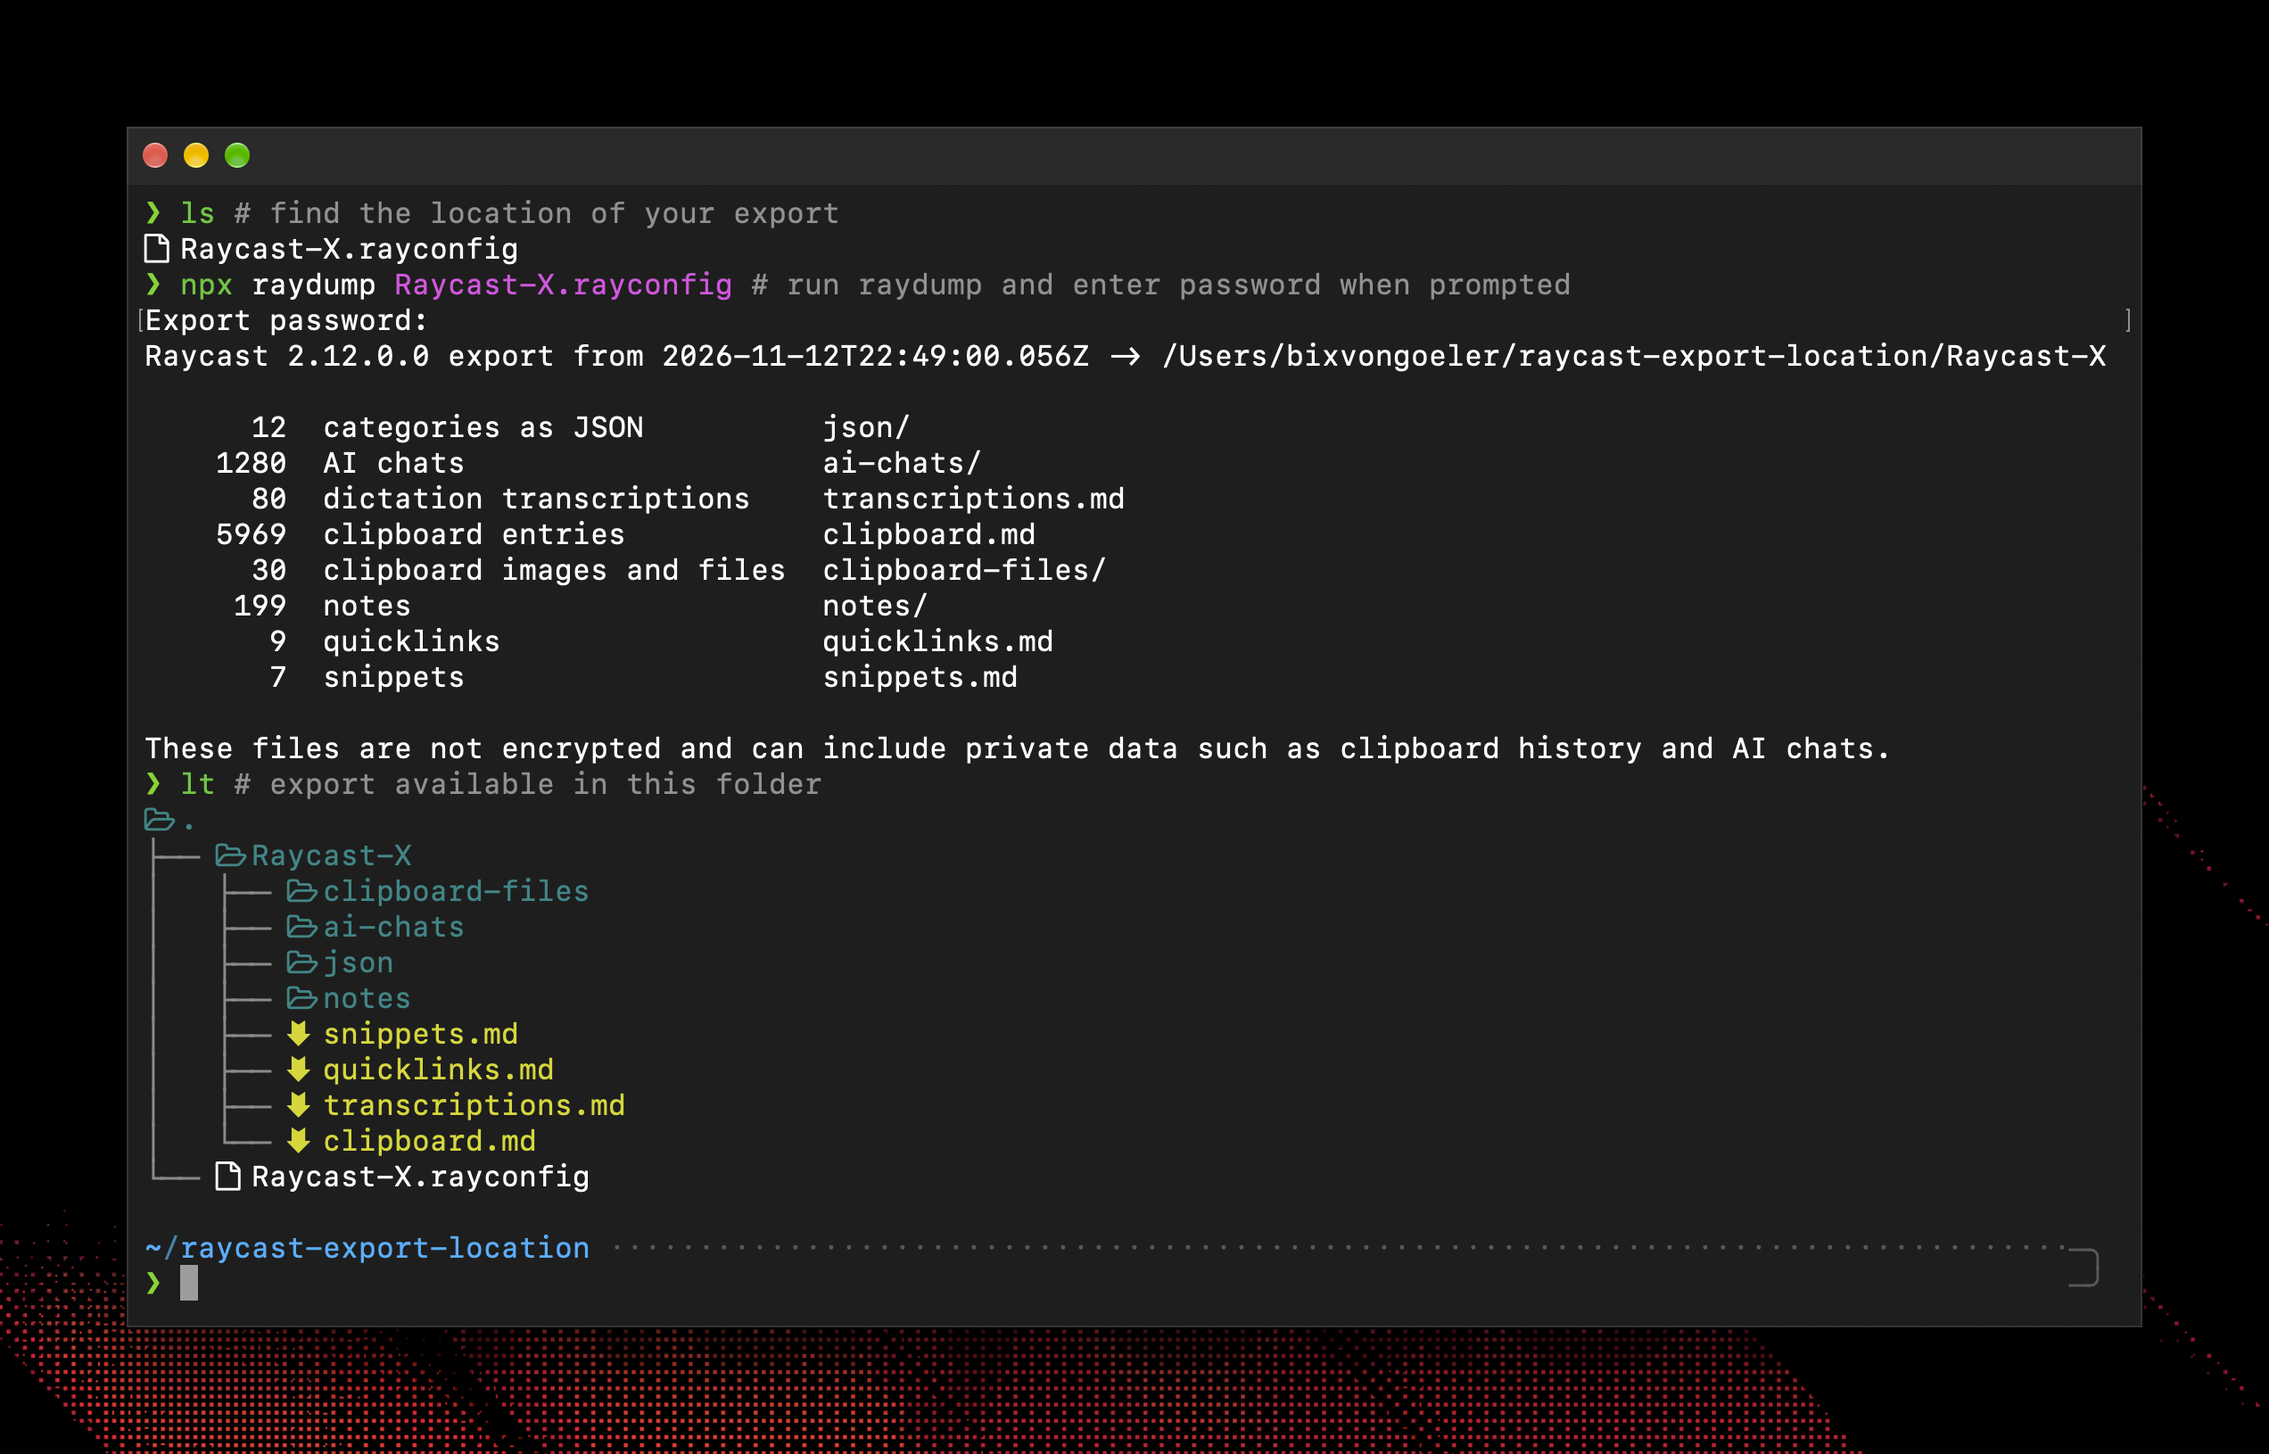
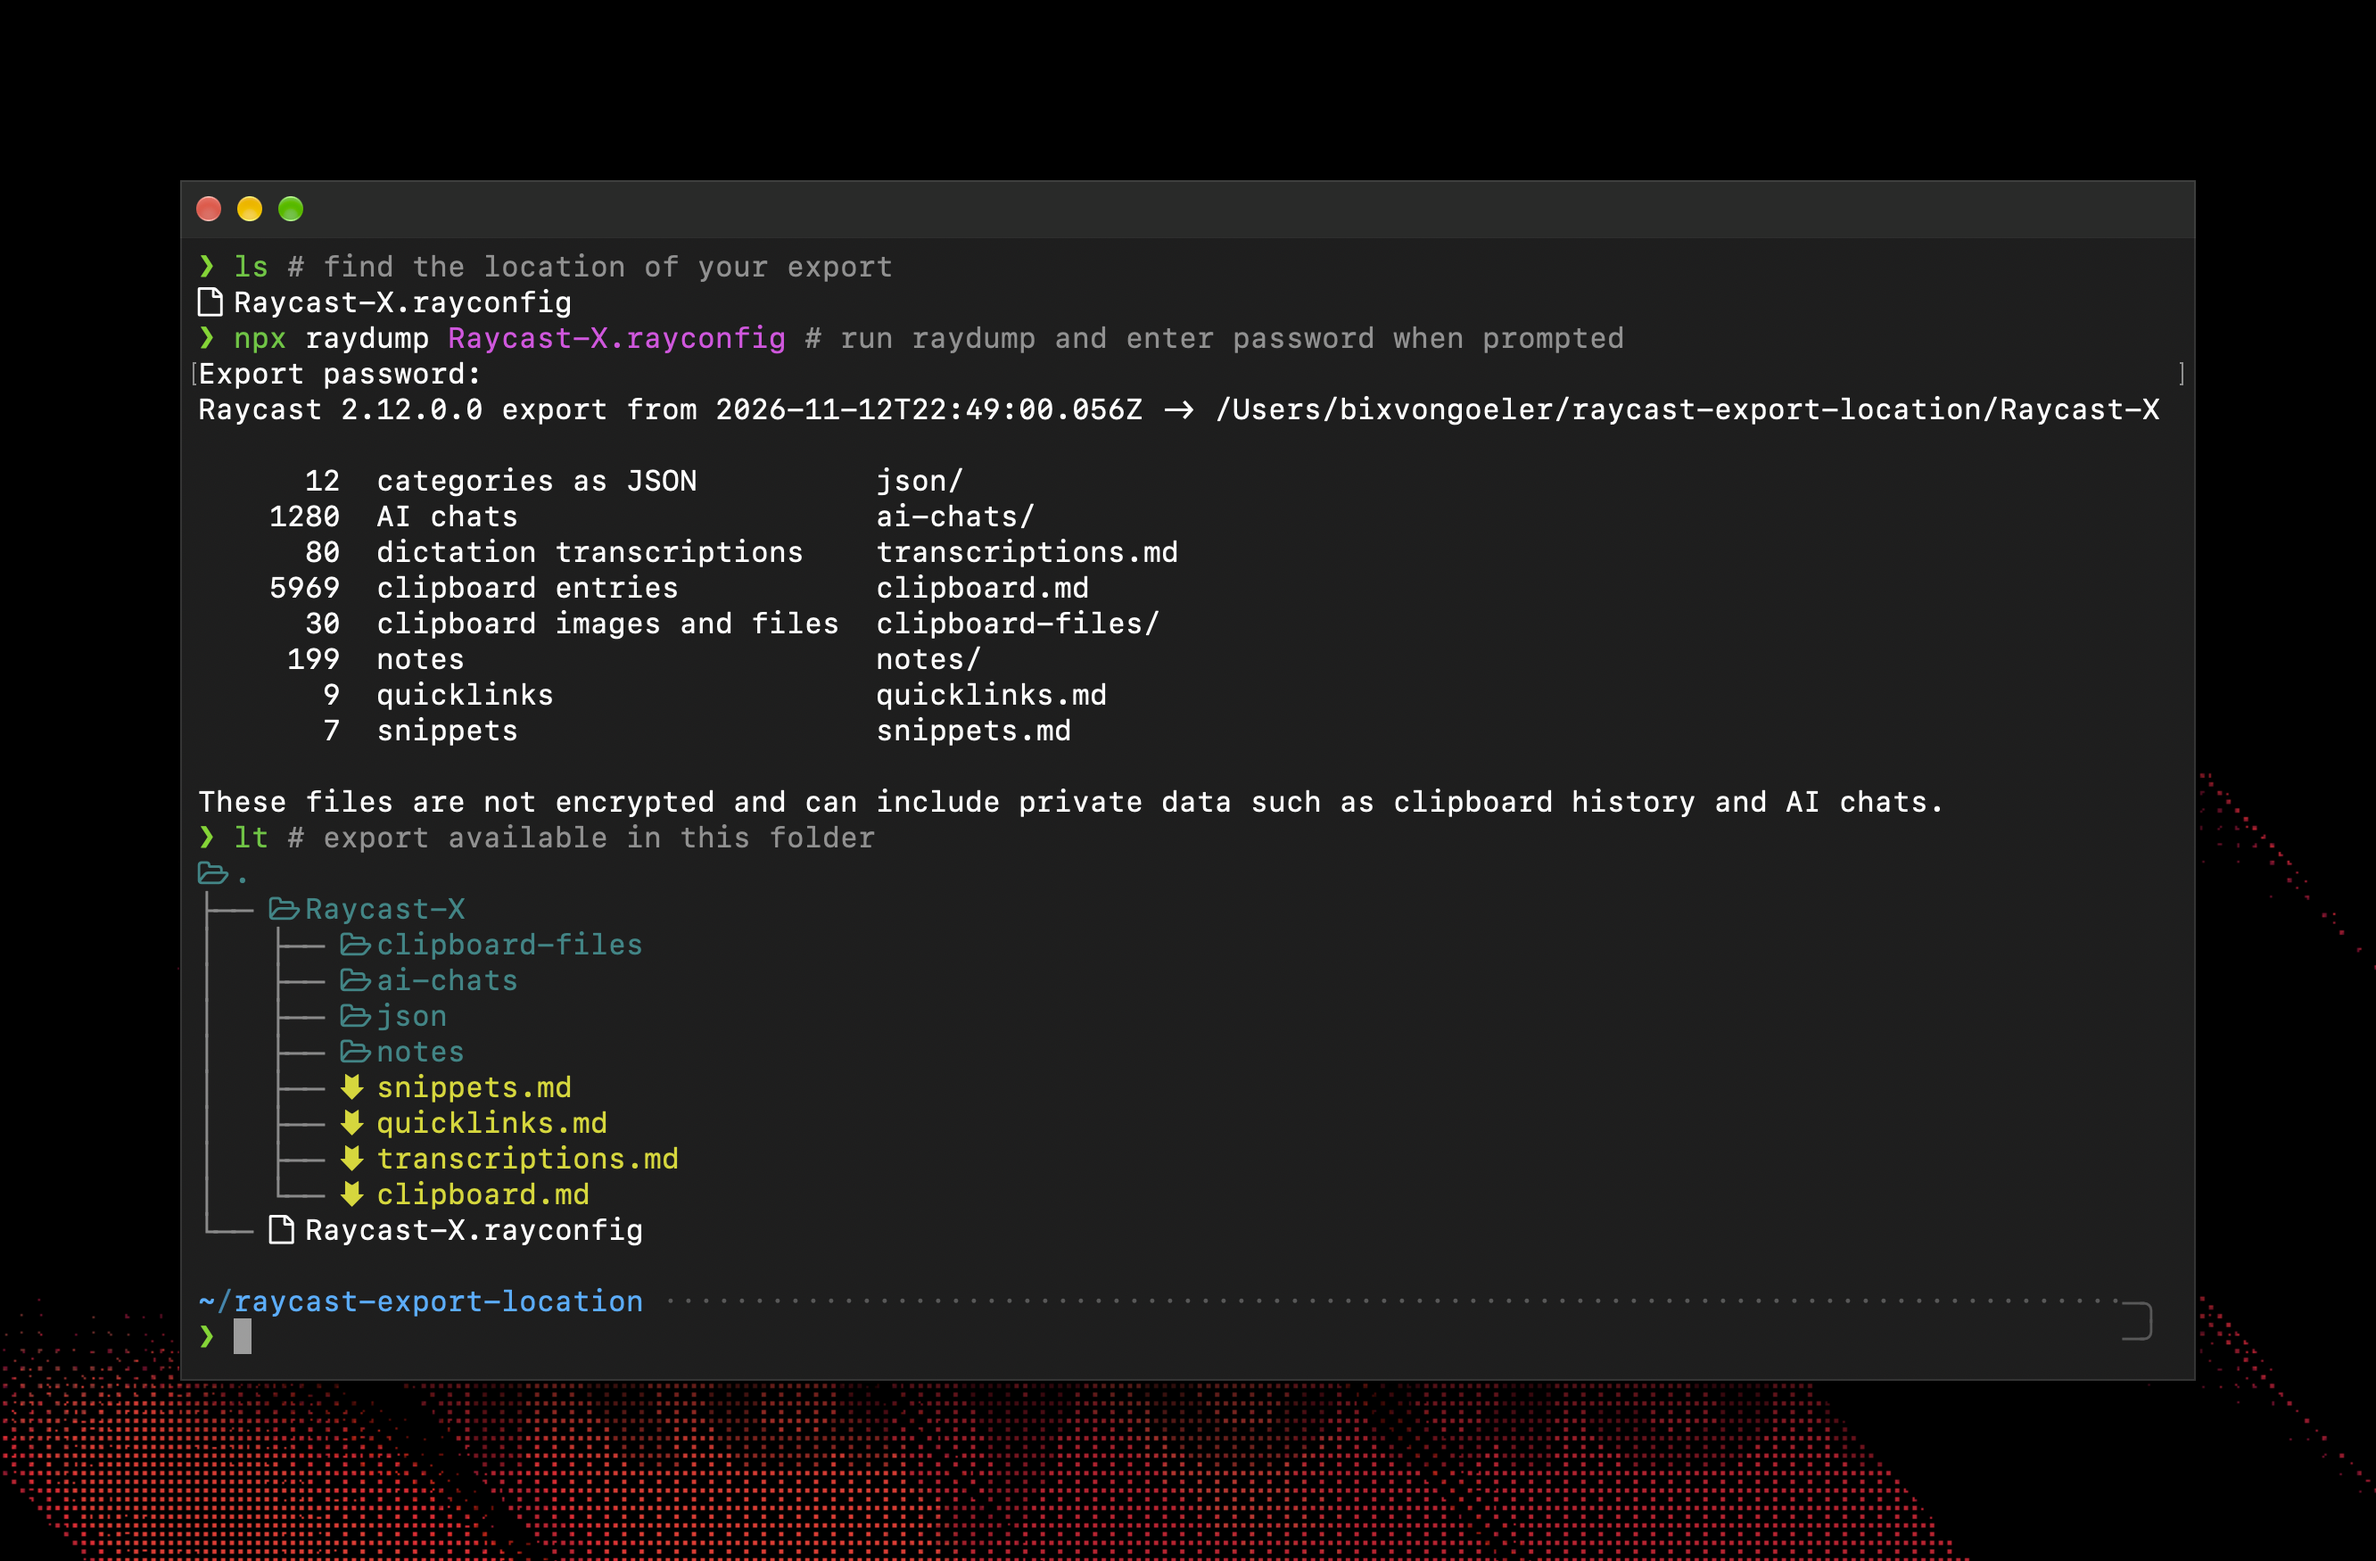
updated graphics

Changed region(s): [[0.0, 0.0613, 0.9627, 1.0]]

diff --git a/README.md b/README.md
@@ -24,6 +24,10 @@ Raycast only offers export through an _"Export Settings & Data"_ command resulti
 - It runs entirely on your computer and makes no network requests.
 - It has no dependencies beyond Node.js.
 
+<p align="center">
+  <a href="https://github.com/bixvongoeler/raydump"><img width="1024" src=".github/assets/flow.png" alt="raydump flow"></a>
+</p>
+
 ## Quick Start
 
 To use `raydump`, run the _"Export Settings & Data"_ command inside Raycast, save the `Raycast-X DATE.rayconfig` file, and then run `npx raydump "/path/to/your/Raycast-X DATE.rayconfig"` which will extract your data to a new folder containing your notes, AI chats, snippets, quicklinks, clipboard history and settings as Markdown and JSON files.
@@ -120,8 +124,7 @@ Exports made without a password need none.
 
 ## Privacy
 
-> [!WARNING]
-> The output is not encrypted. It can contain anything you have copied, dictated or typed into Raycast, including passwords and tokens in your clipboard history. Keep the folder somewhere private, and out of shared or synced locations unless you intend that.
+> [!WARNING] The output is not encrypted. It can contain anything you have copied, dictated or typed into Raycast, including passwords and tokens in your clipboard history. Keep the folder somewhere private, and out of shared or synced locations unless you intend that.
 
 `--skip clipboard` leaves the clipboard history out of the Markdown, but `json/clipboardHistory.json` still contains it. To leave it out completely, name what you do want, for example `--only notes,chats,snippets,quicklinks`.
 
